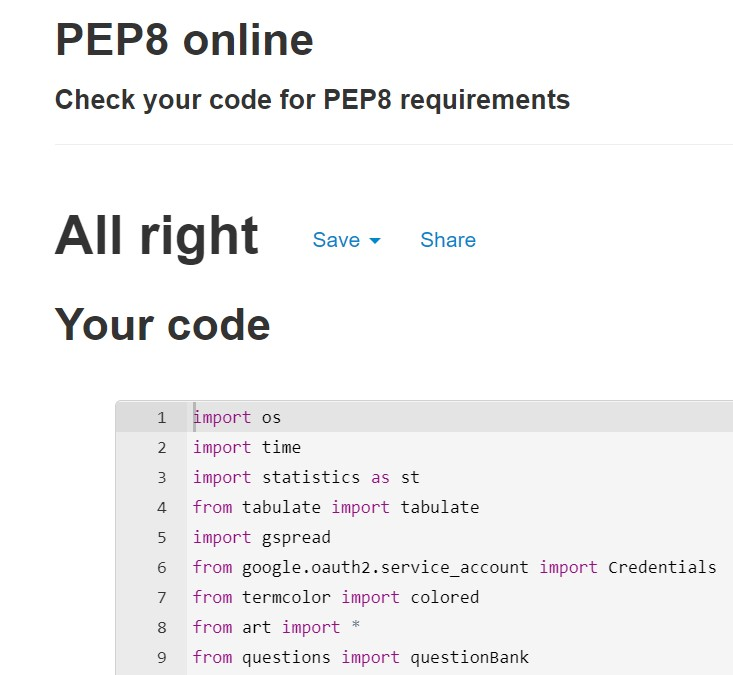
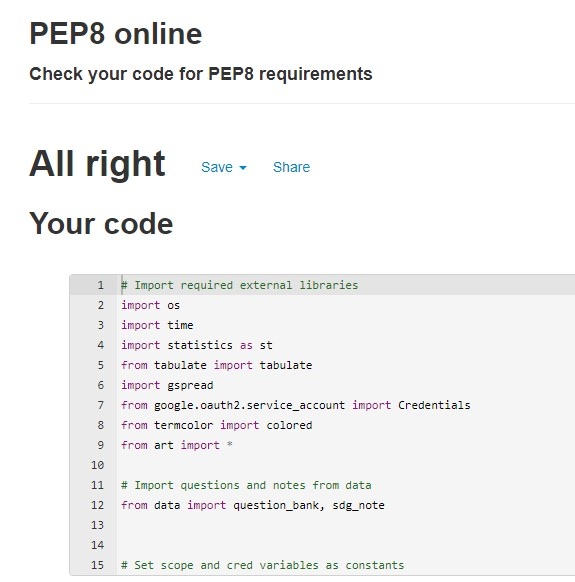
refactored data.py and pep8 checked

diff --git a/data.py b/data.py
@@ -13,7 +13,8 @@ def question_bank():
              'D': 'Sustainable Development Grants'},
          'answer': 'B'},
 
-        {'question': 'When was the 2030 Agenda for Sustainable Development adopted?',
+        {'question': 'When was the 2030 Agenda for Sustainable\
+             Development adopted?',
          'choices': {
              'A': '2010',
              'B': '2015',
@@ -21,7 +22,7 @@ def question_bank():
              'D': '2020'},
          'answer': 'B'},
 
-         {'question': 'How many SDGS are there?',
+        {'question': 'How many SDGS are there?',
          'choices': {
              'A': 15,
              'B': 27,
@@ -37,9 +38,9 @@ def question_bank():
              'D': 'None'},
          'answer': 'D'},
 
-        {'question': '''Goal 17 seeks to Strengthen the means of implementation and revitalize the 
-        Global Partnership for Sustainable Development. 
-What are these means of implementation?''',
+        {'question': '''Goal 17 seeks to Strengthen the means of implementation and revitalize the\
+             Global Partnership for Sustainable Development.\
+            What are these means of implementation?''',
          'choices': {
              'A': 'Finance',
              'B': 'Technology',
@@ -47,8 +48,10 @@ What are these means of implementation?''',
              'D': 'All'},
          'answer': 'D'},
 
-        # 2 questions copied/adapted from https://quizizz.com/admin/quiz/5c6c4413206101001a84dce7/sustainable-development-goals
-        {'question': 'Which is not an obstacle to achieving the Sustainable Development Goals?',
+        # 2 questions copied/adapted from https://quizizz.com/admin/quiz/\
+        # 5c6c4413206101001a84dce7/sustainable-development-goals
+        {'question': 'Which is not an obstacle to achieving the\
+             Sustainable Development Goals?',
          'choices': {
              'A': 'Capital cities',
              'B': 'Differences in income',
@@ -56,8 +59,8 @@ What are these means of implementation?''',
              'D': 'Using more than we produce or grow'},
          'answer': 'A'},
 
-        {'question': '''Which SDG aims to Conserve and sustainably use the oceans, seas and marine
-         resources for Sustainable Development?''',
+        {'question': '''Which SDG aims to Conserve and sustainably use the\
+             oceans, seas and marine resources for Sustainable Development?''',
          'choices': {
              'A': 'Life of land',
              'B': 'Life below water',
@@ -67,15 +70,18 @@ What are these means of implementation?''',
 
         {'question': 'Which statement is correct?',
          'choices': {
-             'A': 'Sustainable development is the same as economic development',
-             'B': 'The 2030 Agenda for Sustainable Development has 17 goals and 169 targets',
-             'C': 'Each of the 17 goals in the SDGs has the same number of targets',
-             'D': '''Developed countries do not have to include SDGs in their national policies 
-             because they are already developed'''},
+             'A': 'Sustainable development is the same as economic\
+                  development',
+             'B': 'The 2030 Agenda for Sustainable Development has 17 goals\
+                  and 169 targets',
+             'C': 'Each of the 17 goals in the SDGs has the same number of\
+                  targets',
+             'D': 'Developed countries do not have to include SDGs in their\
+                  national policies because they are already developed'},
          'answer': 'B'},
 
-        {'question': '''Which goal aims to achieve sustainable management and efficient
-         use of natural resources by 2030?''',
+        {'question': 'Which goal aims to achieve sustainable management and\
+             efficient use of natural resources by 2030?',
          'choices': {
              'A': 'Climate actions',
              'B': 'Clean water and sanitation',
@@ -83,9 +89,9 @@ What are these means of implementation?''',
              'D': 'Life on land'},
          'answer': 'C'},
         # https://www.statista.com/statistics/266138/climate-change-the-countries-with-the-highest-achievements/#:~:text=Based%20on%20the%202022%20Climate,climate%20protection%2C%20followed%20by%20Sweden.
-        {'question': '''Based on the 2022 Climate Change Performance Index, ______ was 
-ranked as the country with the highest achievement in climate protection, 
-followed by _______.''',
+        {'question': 'Based on the 2022 Climate Change Performance Index,\
+             ______ was ranked as the country with the highest achievement in\
+                  climate protection, followed by _______.',
          'choices': {
              'A': 'Denmark, Sweden',
              'B': 'Sweden, Denmark',
@@ -100,11 +106,11 @@ def sdg_note():
     """ A function to store and print a short note
     on and a list of the 17 SDGs.
     """
-    print(''' The Sustainable Development Goals (SDGs), also known as the\
+    print('''The Sustainable Development Goals (SDGs), also known as the\
 Global Goals, were adopted by the United Nations in 2015 as a\
 universal call to action to end poverty, protect the planet,\
- and ensure that by 2030 all people enjoy peace and prosperity.\n The 17 SDGs are\
- integrated—they recognize that action in one area will\
+ and ensure that by 2030 all people enjoy peace and prosperity.\n\
+     The 17 SDGs are integrated—they recognize that action in one area will\
 affect outcomes in others, and that development must balance social,\
 economic and environmental sustainability.\n
     The 17 sustainable development goals (SDGs) to transform our world are:

diff --git a/run.py b/run.py
@@ -25,7 +25,7 @@ GSPREAD_CLIENT = gspread.authorize(SCOPED_CREDS)
 # Open the sdg_quiz google sheet
 SHEET = GSPREAD_CLIENT.open('sdg_quiz')
 
-# Open and store worksheets 
+# Open and store worksheets
 users = SHEET.worksheet('users')
 answers = SHEET.worksheet('answers')
 
@@ -239,7 +239,7 @@ def main_menu():
             break
         elif menu_choice == 3:
             os.system('clear')
-            sdg_note() # function imported from data
+            sdg_note()  # function imported from data
             time.sleep(3)
             will_play()
             break
